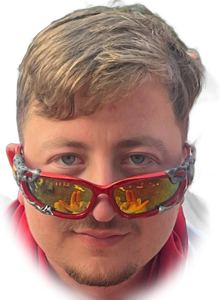
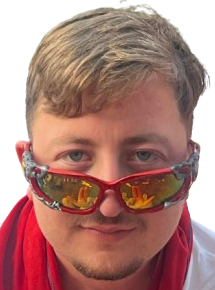
Projecteur : têtes de Thibaut mieux découpées (p05 à p10, p12) et 6 nouvelles (p13 à p18)
p13 (bière) et p17 (pouces levés) rejoignent les têtes contentes.

diff --git a/cam/projector/fx.js b/cam/projector/fx.js
@@ -7,7 +7,7 @@
   const ORDER = [20, 1, 18, 4, 13, 6, 10, 15, 2, 17, 3, 19, 7, 16, 8, 11, 14, 9, 12, 5];
   const RB = { bull: 6.35, obull: 15.9, tIn: 99, tOut: 107, dIn: 162, dOut: 170, board: 225.5, sur: 380, ring: 410 };
   const C = { fluo: '#FFE14D', sunset: '#FF7A2F', crep: '#FF4D8D', ciel: '#4FA3FF' };
-  const HAPPY = ['p01', 'p04', 'p05', 'p08', 'p11'];
+  const HAPPY = ['p01', 'p04', 'p05', 'p08', 'p11', 'p13', 'p17'];
   // Zones libres autour de la cible (projecteur sur la baie, à gauche) : score, têtes, tags.
   // Tout reste sur le surround (anneau gris entre le bord de la cible et son bord extérieur) : rien sur le mur.
   const LAY = { score: { x: -255, y: 150, w: 110, h: 100 }, left: { x: -255, y: -150, w: 110, h: 110 }, tag: { x: 300, y: 0, w: 120, h: 110 } };
@@ -26,7 +26,7 @@
 
   function init(canvas, headUrl) {
     canvas.width = LCW; canvas.height = LCH; g2 = canvas.getContext('2d');
-    for (let i = 1; i <= 12; i++) { const n = 'p' + String(i).padStart(2, '0'); const im = new Image(); im.src = headUrl + n + '.png'; heads[n] = im; }
+    for (let i = 1; i <= 18; i++) { const n = 'p' + String(i).padStart(2, '0'); const im = new Image(); im.src = headUrl + n + '.png'; heads[n] = im; }
   }
   const ready = im => im && im.complete && im.naturalWidth > 0;
 
